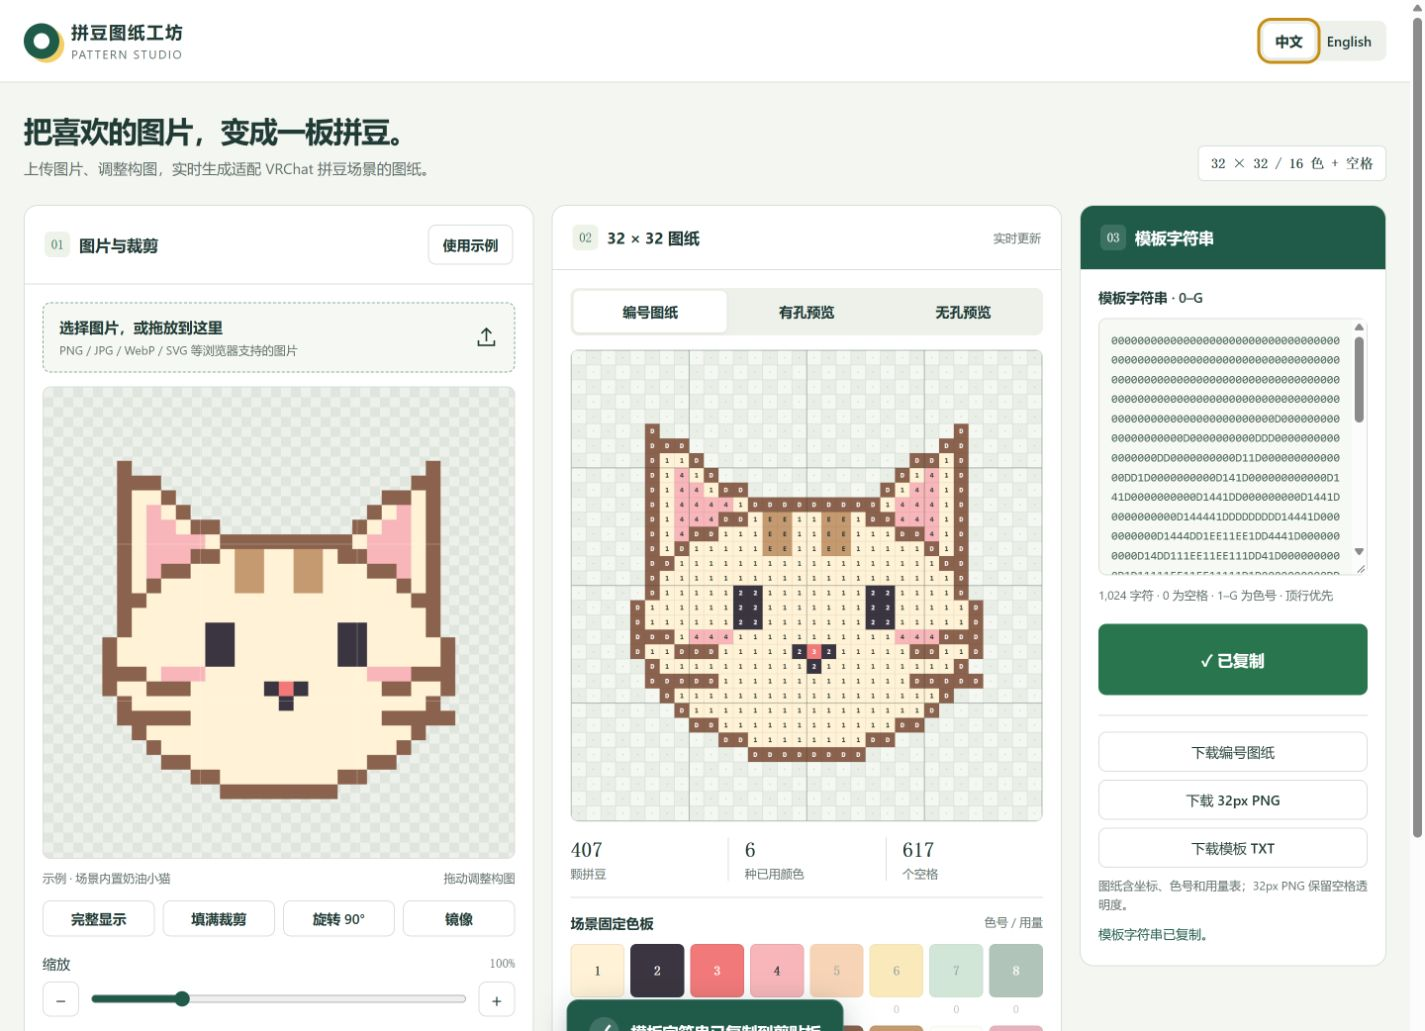
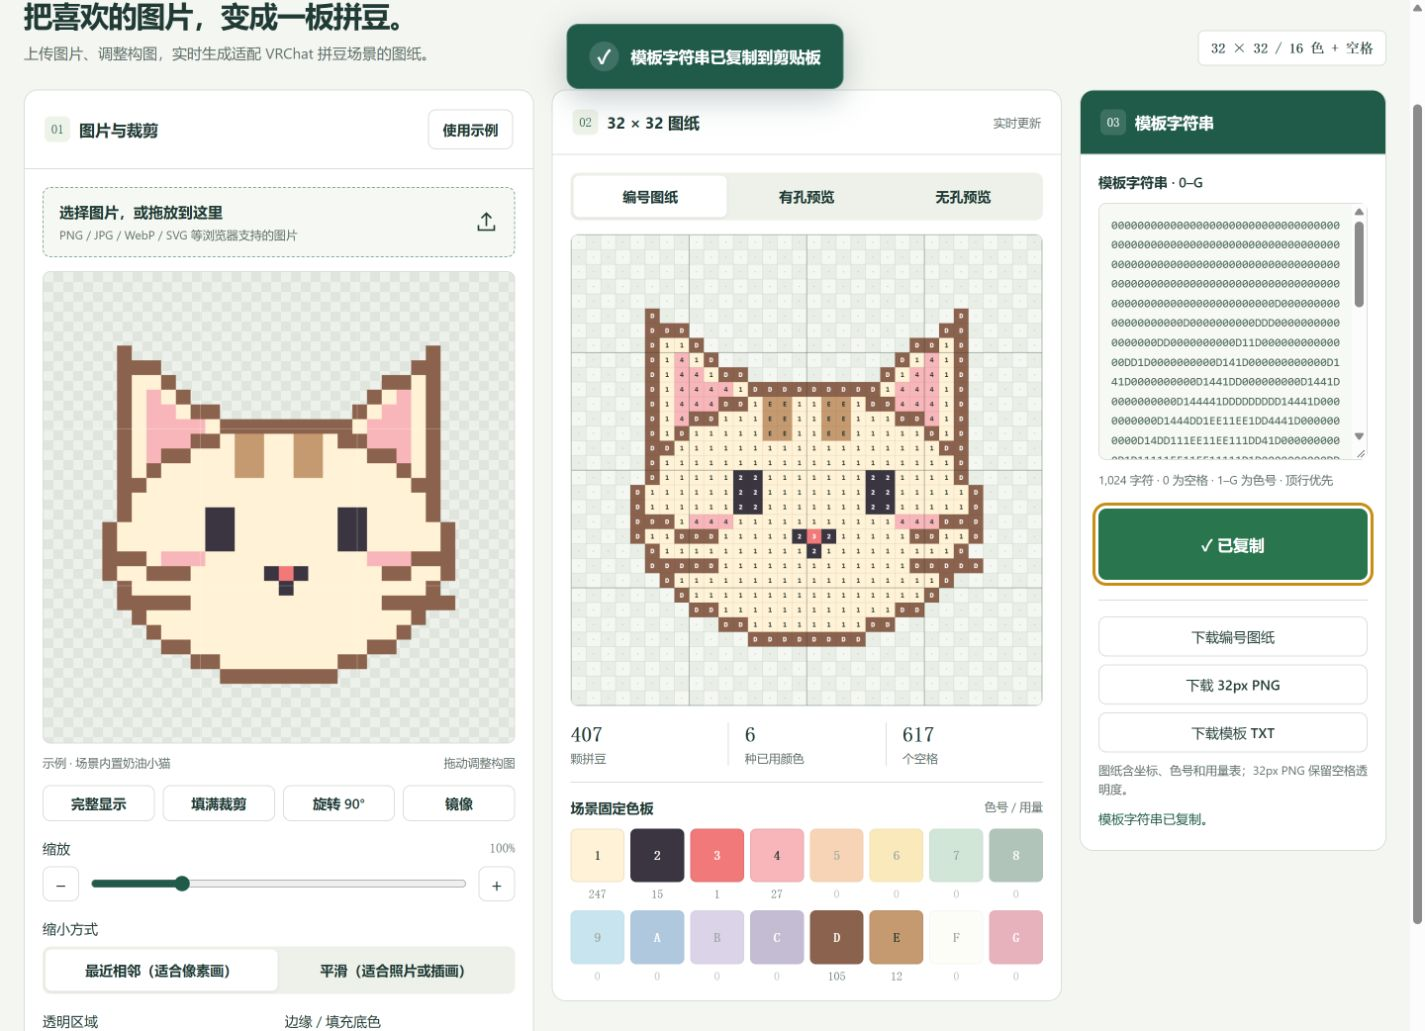
no message

diff --git a/index.html b/index.html
@@ -17,6 +17,7 @@
 .preview-modes{display:grid;grid-template-columns:repeat(3,minmax(0,1fr));width:100%;gap:3px}.preview-option{position:relative;min-width:0}.preview-option input{position:absolute;opacity:0;width:1px;height:1px}.preview-option label{display:grid;place-items:center;min-height:42px;height:100%;padding:9px 8px;border-radius:6px;font-size:.875rem;font-weight:600;text-align:center;cursor:pointer;line-height:1.4}.preview-option input:checked+label{background:#fff;box-shadow:0 1px 3px #1c382418}.preview-option input:focus-visible+label{outline:3px solid #c78d14;outline-offset:1px}.copy-main{min-height:72px;padding:22px 16px;font-size:1rem;font-weight:700}.download-actions{display:grid;gap:8px;border-top:1px solid var(--line);margin-top:20px;padding-top:16px}.download-actions button{width:100%;font-weight:500;background:#fff}.download-actions button:hover{background:#edf2eb}
 .copy-main.is-copied{background:#28754e;border-color:#28754e}.copy-toast{position:fixed;left:50%;top:max(24px,env(safe-area-inset-top));transform:translate(-50%,12px);z-index:1000;display:flex;align-items:center;gap:12px;width:max-content;max-width:calc(100vw - 32px);padding:17px 22px;border:1px solid #ffffff35;border-radius:12px;background:#205b4a;color:#fff;box-shadow:0 8px 32px #102a3540;font-size:1rem;font-weight:600;line-height:1.5;opacity:0;visibility:hidden;pointer-events:none;transition:opacity .16s ease,transform .16s ease,visibility .16s}.copy-toast.is-visible{opacity:1;visibility:visible;transform:translate(-50%,0)}.toast-icon{display:grid;place-items:center;flex-shrink:0;width:30px;height:30px;border-radius:50%;background:#ffffff24;font-size:1.2rem}@media(prefers-reduced-motion:reduce){.copy-toast{transition:none}}
 .sampling-modes{display:grid;grid-template-columns:repeat(2,minmax(0,1fr));width:100%;gap:3px}
+.game-export{display:flex;align-items:center;justify-content:space-between;gap:20px;margin-bottom:24px;padding:18px 20px;background:#edf6ee;border:1px solid #a9c8ae;border-radius:12px}.game-export strong{display:block;margin-bottom:4px}.game-export p{font-size:.875rem;color:#42634c}.game-export-download{flex-shrink:0;display:block;border:1px solid var(--line);border-radius:8px;background:#fff;color:var(--ink);padding:10px 14px;font-size:.875rem;font-weight:600;text-align:center;text-decoration:none}.game-export-download:hover{background:#edf2eb}.game-export-download[aria-disabled=true]{opacity:.42;cursor:wait}.game-export.error{background:#fff2ef;border-color:#e2b7ad}.game-export.error p{color:#963f31}@media(max-width:680px){.game-export{align-items:stretch;flex-direction:column;gap:12px;padding:16px}.game-export-download{width:100%}}
 </style>
 </head>
 <body>
@@ -24,6 +25,7 @@
 <noscript>Please enable JavaScript to use this tool. / 请启用 JavaScript 以使用此工具。</noscript>
 <main>
 <div class="intro"><div><h1 data-i18n="headline">Turn a favorite image into bead art.</h1><p data-i18n="intro">Upload an image and adjust the crop to create a pattern for the Pixel Beads VRChat world.</p></div><div class="spec" data-i18n="spec">32 × 32 / 16 colors + empty</div></div>
+<section class="game-export" id="gameExportNotice" hidden aria-labelledby="gameExportTitle"><div><strong id="gameExportTitle" data-i18n="gameExportTitle">Artwork from the game</strong><p id="gameExportMessage" role="status" aria-live="polite"></p></div><a class="game-export-download" id="gameExportDownload" href="#" data-i18n="gameExportDownload" hidden>Download artwork PNG</a></section>
 <div class="workspace" id="workspace">
 <section class="panel" aria-labelledby="cropTitle"><div class="panel-head"><h2 id="cropTitle"><span class="step">01</span><span data-i18n="cropTitle">Image &amp; crop</span></h2><button id="demoButton" type="button" data-i18n="demo">Use example</button></div><div class="panel-body">
 <input class="file-input" type="file" id="fileInput" accept="image/*" tabindex="-1" data-i18n-aria-label="chooseFile" aria-label="Choose an image file">
@@ -98,7 +100,40 @@ const BeadCore = (() => {
     if(cells.length!==1024 || Array.from(cells).some(v=>!Number.isInteger(v)||v<0||v>16)) throw new Error('图案必须包含 1,024 个 0–16 的整数');
   }
   function template(cells) {validate(cells);return Array.from(cells,v=>symbols[v]).join('');}
-  return {symbols,hex,rgb,quantize,nearest,template};
+  function decodeTemplate(pattern) {
+    if(typeof pattern!=='string' || pattern.length!==1024 || !/^[0-9A-G]{1024}$/.test(pattern)) throw new Error('Invalid 32 × 32 template');
+    return Uint8Array.from(pattern,symbol=>symbols.indexOf(symbol));
+  }
+  return {symbols,hex,rgb,quantize,nearest,template,decodeTemplate};
+})();
+</script>
+<script id="bead-export">
+// Game export URL v1: #export=1&pattern=<1024 top-down symbols>&style=holes|solid&name=<encoded name>
+const BeadExport = (() => {
+  function parseUrl(value) {
+    const fragment=new URL(value).hash.slice(1),params=new URLSearchParams(fragment);
+    if(!params.has('export') && !params.has('pattern'))return null;
+    if(fragment.length>8192)throw new Error('Export URL is too long');
+    for(const key of ['export','pattern','style','name'])if(params.getAll(key).length>1)throw new Error('Duplicate export parameter');
+    if(params.get('export')!=='1')throw new Error('Unsupported export version');
+    const cells=BeadCore.decodeTemplate(params.get('pattern')),style=params.get('style') ?? 'solid',name=(params.get('name') ?? '').trim();
+    if(!['holes','solid'].includes(style))throw new Error('Invalid artwork style');
+    if(name.length>128)throw new Error('Artwork name is too long');
+    return {cells,style,name};
+  }
+  function drawArtwork(g,cells,style='solid',size=1024) {
+    BeadCore.template(cells);
+    if(!['holes','solid'].includes(style) || !Number.isInteger(size) || size<32 || size>4096)throw new Error('Invalid artwork output');
+    const cell=size/32;g.clearRect(0,0,size,size);
+    for(let i=0;i<1024;i++) {
+      const v=cells[i];if(!v)continue;
+      const x=i%32*cell,y=Math.floor(i/32)*cell;g.fillStyle='#'+BeadCore.hex[v-1];
+      if(style==='holes') {
+        g.beginPath();g.arc(x+cell/2,y+cell/2,cell*.455,0,Math.PI*2);g.arc(x+cell/2,y+cell/2,cell*.145,0,Math.PI*2,true);g.fill('evenodd');
+      }else g.fillRect(x,y,cell,cell);
+    }
+  }
+  return {parseUrl,drawArtwork};
 })();
 </script>
 <script id="bead-i18n">
@@ -114,6 +149,7 @@ const BeadI18n = (() => {
       downloadChart:'Download pattern', downloadPixels:'32px PNG', downloadHint:'The pattern includes coordinates, color codes and counts. The 32px PNG preserves transparent cells.', emptyNote:'The pattern is empty. Adjust the crop or lower the alpha threshold.',
       exportTitle:'Template string', templateLabel:'Template · 0–G', codeInfo:'1,024 characters · 0 = empty · 1–G = colors · top row first', copy:'Copy template', downloadCode:'Download TXT', footer:'Made for the Pixel Beads VRChat world · Original 16-color palette',
       loading:'Reading image…', loaded:'Image loaded. Drag or zoom to adjust. Animated images use a single frame.', loadError:'This image could not be read. Try a supported PNG, JPG, WebP or SVG file.', copied:'Template copied.', copyDone:'✓ Copied', copyNotice:'Template copied to clipboard.', copyFallback:'Template selected. Press Ctrl+C (Mac: ⌘C) to copy.', pngReady:'PNG download prepared.', pngError:'Image export failed. Please try again.', txtReady:'Template TXT download prepared.',
+      gameExportTitle:'Artwork from the game', gameExportName:'Bead artwork', gameExportFile:'Game artwork · {name} · 32 × 32', gameExportPreparing:'Artwork restored. Preparing your PNG download…', gameExportReady:'Your 1024 × 1024 PNG download has been started. If it does not appear, use the download button.', gameExportDownload:'Download artwork PNG', gameExportInvalid:'This artwork link is incomplete or unsupported. Copy the full export URL from the game and try again.', gameExportError:'The artwork was restored, but PNG export failed. Use the download button to try again.',
       colorNames:['Cream','Ink','Coral','Pink','Apricot','Yellow','Mint','Forest','Sky','Blue','Lilac','Violet','Brown','Caramel','Ivory','Berry'], beadQuantity:'{count} beads', chartTitle:'PIXEL BEADS / BEAD PATTERN', chartSubtitle:'32 × 32  ·  {count} beads  ·  Leave empty cells blank', chartFooter:'Pixel Beads · 16 colors · Codes 1–9 / A–G · Coordinates start at the top left', chartSuffix:'_pattern.png'
     },
     zh: {
@@ -126,6 +162,7 @@ const BeadI18n = (() => {
       downloadChart:'下载编号图纸', downloadPixels:'下载 32px PNG', downloadHint:'图纸含坐标、色号和用量表；32px PNG 保留空格透明度。', emptyNote:'当前图案全为空格。请调整构图或降低透明度阈值。',
       exportTitle:'模板字符串', templateLabel:'模板字符串 · 0–G', codeInfo:'1,024 字符 · 0 为空格 · 1–G 为色号 · 顶行优先', copy:'复制模板字符串', downloadCode:'下载模板 TXT', footer:'适配 Pixel Beads VRChat 场景 · 固定 16 色色板',
       loading:'正在读取图片…', loaded:'图片已载入，可拖动、缩放调整。动图仅取静态帧。', loadError:'无法读取这张图片。请使用浏览器支持的 PNG、JPG、WebP 或 SVG 等格式。', copied:'模板字符串已复制。', copyDone:'✓ 已复制', copyNotice:'模板字符串已复制到剪贴板', copyFallback:'模板字符串已全选，请按 Ctrl+C（Mac：⌘C）复制。', pngReady:'已生成 PNG 下载。', pngError:'导出图片失败，请重试。', txtReady:'已生成模板 TXT 下载。',
+      gameExportTitle:'游戏作品导出', gameExportName:'拼豆作品', gameExportFile:'游戏作品 · {name} · 32 × 32', gameExportPreparing:'作品已还原，正在准备 PNG 下载…', gameExportReady:'已发起 1024 × 1024 PNG 下载。若未看到下载文件，请点击下载按钮。', gameExportDownload:'下载作品 PNG', gameExportInvalid:'作品链接不完整或版本不支持，请从游戏中复制完整的导出 URL 后重试。', gameExportError:'作品已还原，但 PNG 导出失败，请点击下载按钮重试。',
       colorNames:['奶油','墨黑','珊瑚','浅粉','杏橙','暖黄','浅绿','森林','浅蓝','海蓝','浅紫','深紫','棕色','焦糖','米白','莓红'], beadQuantity:'{count} 颗', chartTitle:'PIXEL BEADS / 拼豆图纸', chartSubtitle:'32 × 32  ·  {count} 颗  ·  空格不放豆', chartFooter:'Pixel Beads 场景固定 16 色  ·  色号 1–9 / A–G  ·  坐标自左上角起', chartSuffix:'_编号图纸.png'
     }
   };
@@ -144,7 +181,7 @@ const BeadI18n = (() => {
   const $=id=>document.getElementById(id),C=BeadCore;
   let language=BeadI18n.detect(navigator.languages?.[0] || navigator.language);
   const t=(key,vars)=>BeadI18n.translate(language,key,vars);
-  const state={source:null,oriented:null,angle:0,mirror:false,zoom:100,x:0,y:0,view:'chart',cells:new Uint8Array(1024),counts:new Uint16Array(17),name:'',isDemo:true,statusKey:'',statusError:false,ticket:0};
+  const state={source:null,oriented:null,angle:0,mirror:false,zoom:100,x:0,y:0,view:'chart',cells:new Uint8Array(1024),counts:new Uint16Array(17),name:'',isDemo:true,isGameExport:false,gameExport:null,statusKey:'',statusError:false,ticket:0};
   const crop=$('cropCanvas'),preview=$('previewCanvas'),sample=document.createElement('canvas'); sample.width=sample.height=32;
   const sampleContext=sample.getContext('2d',{willReadFrequently:true});
   let frame=0,copyFeedbackTimer=0;
@@ -160,6 +197,11 @@ const BeadI18n = (() => {
     copyFeedbackTimer=setTimeout(clearCopyFeedback,3500);
   }
   function status(key,error=false){state.statusKey=key;state.statusError=error;$('status').textContent=key?t(key):'';$('status').classList.toggle('error',error);}
+  function exportNotice(key,error=false){
+    $('gameExportNotice').hidden=false;$('gameExportNotice').classList.toggle('error',error);
+    $('gameExportMessage').dataset.i18n=key;$('gameExportMessage').textContent=t(key);
+  }
+  function clearGameExport(){if(state.gameExport?.url)URL.revokeObjectURL(state.gameExport.url);state.gameExport=null;state.isGameExport=false;$('gameExportNotice').hidden=true;$('gameExportDownload').hidden=true;$('gameExportDownload').href='#';$('gameExportDownload').removeAttribute('download');}
   function applyLanguage(next){
     language=next;document.documentElement.lang=next==='zh'?'zh-CN':'en';document.title=t('title');
     document.querySelector('meta[name="description"]').content=t('description');
@@ -168,6 +210,7 @@ const BeadI18n = (() => {
     $('languageZh').setAttribute('aria-pressed',String(next==='zh'));$('languageEn').setAttribute('aria-pressed',String(next==='en'));
     Array.from($('matte').options).forEach((option,i)=>option.textContent=C.symbols[i+1]+' · '+t('colorNames')[i]);
     if(state.isDemo){state.name=t('demoName');$('fileName').textContent=t('demoFile');}
+    if(state.isGameExport){state.name=state.gameExport.name||t('gameExportName');$('fileName').textContent=t('gameExportFile',{name:state.name});}
     preview.setAttribute('aria-label',t(state.view+'Aria'));
     if($('copyToast').classList.contains('is-visible'))$('copyToastText').textContent=t('copyNotice');
     status(state.statusKey,state.statusError);render();
@@ -225,7 +268,7 @@ const BeadI18n = (() => {
   function resetCrop(fit=false){state.x=state.y=0;state.zoom=fit?Math.min(state.oriented.width,state.oriented.height)/Math.max(state.oriented.width,state.oriented.height)*100:100;schedule();}
   function setZoom(value){const next=Math.min(400,Math.max(+$('zoom').min,value)),ratio=next/state.zoom;state.x*=ratio;state.y*=ratio;state.zoom=next;schedule();}
   async function loadFile(file){
-    if(!file)return;const ticket=++state.ticket;status('loading');
+    if(!file)return;const ticket=++state.ticket;clearGameExport();status('loading');
     const url=URL.createObjectURL(file);
     try{
       const img=new Image();img.src=url;await img.decode();if(ticket!==state.ticket)return;
@@ -238,7 +281,7 @@ const BeadI18n = (() => {
     finally{URL.revokeObjectURL(url);$('fileInput').value='';}
   }
   function demo(){
-    ++state.ticket;
+    ++state.ticket;clearGameExport();
[1 lines of base64/hex data omitted]
     const s=document.createElement('canvas');s.width=s.height=32;const g=s.getContext('2d');
     for(let i=0;i<1024;i++){const v=C.symbols.indexOf(pattern[i]);if(v>0){g.fillStyle='#'+C.hex[v-1];g.fillRect(i%32,Math.floor(i/32),1,1);}}
@@ -273,7 +316,40 @@ const BeadI18n = (() => {
     try{if(!navigator.clipboard?.writeText)throw new Error('fallback');await navigator.clipboard.writeText(text);confirmCopy();}
     catch(e){const box=$('code');box.focus();box.select();box.setSelectionRange(0,box.value.length);let copied=false;try{copied=document.execCommand('copy');}catch(_){}if(copied)confirmCopy();else status('copyFallback');}
   };
-  function saveBlob(blob,suffix){const url=URL.createObjectURL(blob),a=document.createElement('a');a.href=url;a.download=state.name.replace(/[<>:"/\\|?*\x00-\x1f]/g,'_').slice(0,80)+suffix;document.body.append(a);a.click();a.remove();setTimeout(()=>URL.revokeObjectURL(url),30000);}
+  function downloadName(name,suffix){return (name.replace(/[<>:"/\\|?*\x00-\x1f]/g,'_').slice(0,80)||t('defaultName'))+suffix;}
+  function saveBlob(blob,suffix,name=state.name){const url=URL.createObjectURL(blob),a=document.createElement('a');a.href=url;a.download=downloadName(name,suffix);document.body.append(a);a.click();a.remove();setTimeout(()=>URL.revokeObjectURL(url),30000);}
+  function downloadGameArtwork(){
+    const artwork=state.gameExport;if(!artwork || artwork.pending)return;
+    const name=artwork.name||t('gameExportName'),suffix='_'+artwork.style+'_1024.png';
+    if(artwork.blob){saveBlob(artwork.blob,suffix,name);exportNotice('gameExportReady');return;}
+    artwork.pending=true;$('gameExportDownload').setAttribute('aria-disabled','true');exportNotice('gameExportPreparing');
+    try{
+      const canvas=document.createElement('canvas');canvas.width=canvas.height=1024;
+      BeadExport.drawArtwork(canvas.getContext('2d'),artwork.cells,artwork.style,1024);
+      canvas.toBlob(blob=>{
+        if(state.gameExport!==artwork)return;
+        artwork.pending=false;$('gameExportDownload').removeAttribute('aria-disabled');
+        if(!blob){exportNotice('gameExportError',true);return;}
+        artwork.blob=blob;artwork.url=URL.createObjectURL(blob);$('gameExportDownload').href=artwork.url;$('gameExportDownload').download=downloadName(name,suffix);saveBlob(blob,suffix,name);exportNotice('gameExportReady');
+      },'image/png');
+    }catch(_){artwork.pending=false;$('gameExportDownload').removeAttribute('aria-disabled');exportNotice('gameExportError',true);}
+  }
+  function loadGameExport(){
+    let artwork;
+    try{artwork=BeadExport.parseUrl(location.href);}
+    catch(_){demo();exportNotice('gameExportInvalid',true);return true;}
+    if(!artwork)return false;
+    ++state.ticket;clearGameExport();state.gameExport=artwork;state.isGameExport=true;state.isDemo=false;
+    const source=document.createElement('canvas');source.width=source.height=32;
+    BeadExport.drawArtwork(source.getContext('2d'),artwork.cells,'solid',32);
+    state.source=source;state.angle=0;state.mirror=false;state.name=artwork.name||t('gameExportName');
+    $('fileName').textContent=t('gameExportFile',{name:state.name});$('mirrorButton').setAttribute('aria-pressed','false');
+    $('samplingNearest').checked=true;$('background').value='empty';$('alpha').value='128';
+    orient();resetCrop();view(artwork.style);flush();status('');
+    $('gameExportDownload').hidden=false;downloadGameArtwork();return true;
+  }
+  $('gameExportDownload').onclick=e=>{if(!state.gameExport?.blob){e.preventDefault();downloadGameArtwork();}};
+  window.addEventListener('hashchange',()=>{if(!loadGameExport())demo();});
   function png(canvas,suffix){canvas.toBlob(blob=>{if(blob){saveBlob(blob,suffix);status('pngReady');}else status('pngError',true);},'image/png');}
   $('downloadCode').onclick=()=>{flush();saveBlob(new Blob([$('code').value],{type:'text/plain;charset=utf-8'}),'_template.txt');status('txtReady');};
   $('downloadPixels').onclick=()=>{
@@ -289,7 +365,7 @@ const BeadI18n = (() => {
     for(let i=0;i<16;i++){const x=64+i%8*166,y=1462+Math.floor(i/8)*93;g.fillStyle='#'+C.hex[i];g.fillRect(x,y,42,42);g.strokeStyle='#bcc6ba';g.lineWidth=1;g.strokeRect(x,y,42,42);g.fillStyle=textColor(i);g.font='bold 22px ui-monospace,monospace';g.fillText(C.symbols[i+1],x+21,y+23);g.textAlign='left';g.fillStyle='#203a35';g.font='20px "Microsoft YaHei",sans-serif';g.fillText(t('colorNames')[i],x+51,y+13);g.font='18px ui-monospace,monospace';g.fillText(t('beadQuantity',{count:state.counts[i+1]}),x+51,y+39);g.textAlign='center';}
     g.textAlign='left';g.fillStyle='#61706b';g.font='18px "Microsoft YaHei",sans-serif';g.fillText(t('chartFooter'),64,1690);png(c,t('chartSuffix'));
   };
-  applyLanguage(language);demo();
+  applyLanguage(language);if(!loadGameExport())demo();
 })();
 </script>
 </body>

diff --git a/EXPORT_URL.md b/EXPORT_URL.md
@@ -1,0 +1,46 @@
+# Game artwork export URL · v1
+
+Opening a valid export URL restores the 32 × 32 artwork and starts one PNG download. The page also offers a manual download button. The output is a transparent 1024 × 1024 PNG using the scene's 16-color palette, with no grid, labels, or background. This contract is implemented on the web side; the game still needs its URL-copying action.
+
+For a local test, run `node Tools/BeadPattern/preview-server.cjs` from the Unity project root, then open `http://127.0.0.1:8765/test-export`. The local server generates the complete, validated example URL and redirects to it. This shortcut belongs to the local preview server; the published static page uses the fragment contract below.
+
+Append these parameters to the published page URL **after `#`**:
+
+```text
+<page-url>#export=1&pattern=<1024-symbol-template>&style=holes&name=<URL-encoded-name>
+```
+
+| Parameter | Required | Value |
+| --- | --- | --- |
+| `export` | Yes | `1`, the protocol version. |
+| `pattern` | Yes | Exactly 1024 uppercase symbols `0–9`, `A–G`. `0` is empty; `1–G` map to palette colors 1–16. |
+| `style` | No | `holes` for round beads with transparent holes; `solid` for square pixels without holes. Defaults to `solid`. |
+| `name` | No | URL-encoded artwork name, at most 128 UTF-16 code units after decoding and trimming. Defaults to a translated artwork name. |
+
+The template runs left to right, **top row first**, matching `PBTemplates.patterns`. The first symbol is the top-left cell; symbol 32 is the top-right; symbol 993 is the bottom-left. When exporting a Unity board stored bottom row first, emit rows **31 down to 0**, keeping columns 0 through 31 within each row. Do not append the PlayerData collection record or pack the template into binary data.
+
+The page rejects missing or invalid templates, unsupported versions or styles, duplicate parameters, names over the limit, and fragments longer than 8192 characters. Invalid links show an error and do not download. Ordinary page visits do not download. Query parameters before `#` do not trigger this flow.
+
+For reference, this JavaScript creates a complete valid URL with four differently colored corners:
+
+```js
+const symbols = '0123456789ABCDEFG';
+const cells = Array(1024).fill(0); // top-down order
+cells[0] = 1;    // top left
+cells[31] = 2;   // top right
+cells[992] = 3;  // bottom left
+cells[1023] = 16; // bottom right
+
+const page = new URL('http://127.0.0.1:8765/'); // replace with the published page URL
+page.hash = new URLSearchParams({
+  export: '1',
+  pattern: cells.map(value => symbols[value]).join(''),
+  style: 'holes',
+  name: 'Four corners'
+}).toString();
+console.log(page.href);
+```
+
+The same fragment works on a GitHub Pages project path such as `/BeadPattern/`; no server route or backend is required. Only `index.html` and `.nojekyll` are needed for deployment. Run `node --test codec.test.cjs` from this directory to validate the codec and export contract (the tests also read the adjacent Unity project).
+
+The page generates the PNG from the URL data before the user edits the restored pattern. The download button retains that original image even if the crop or preview changes. Its filename ends in `_holes_1024.png` or `_solid_1024.png`. Browsers may block downloads started on page load; the visible download button lets the user retry with a click. The page reports that it has started the download, rather than claiming that the browser has saved the file.
